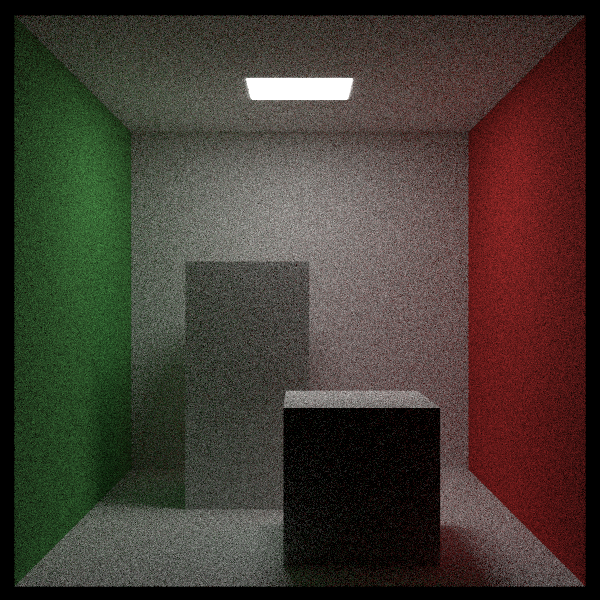
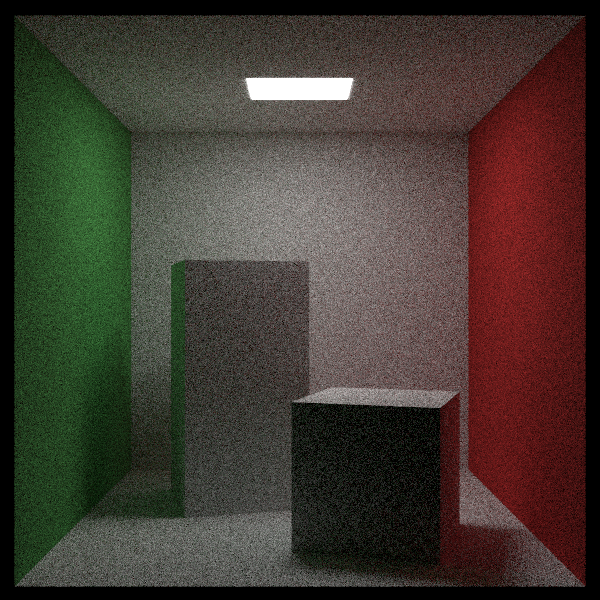
Translate and rotate objects

diff --git a/src/instance.rs b/src/instance.rs
@@ -1,0 +1,144 @@
+// TODO: We can probably leverage the features of nalgebra to do the rotations/translations
+
+use crate::{
+    aabb::AABB,
+    hittable::{HitRecord, Hittable},
+    math::{Point, Vector},
+    ray::Ray,
+};
+
+pub struct Translate {
+    hittable: Box<dyn Hittable>,
+    offset: Vector,
+}
+
+impl Translate {
+    pub fn new(hittable: Box<dyn Hittable>, offset: Vector) -> Self {
+        Self { hittable, offset }
+    }
+}
+
+impl Hittable for Translate {
+    fn hit(&self, ray: &Ray, t_min: f64, t_max: f64) -> Option<HitRecord> {
+        let offset_ray = Ray::new(ray.origin() - self.offset, ray.direction(), ray.time());
+        match self.hittable.hit(&offset_ray, t_min, t_max) {
+            Some(mut hit) => {
+                hit.p += self.offset;
+                // hit.normal += self.offset;
+
+                Some(hit)
+            }
+            None => None,
+        }
+    }
+
+    fn bounding_box(&self, start_time: f64, end_time: f64) -> Option<crate::aabb::AABB> {
+        match self.hittable.bounding_box(start_time, end_time) {
+            Some(aabb) => Some(AABB::new(
+                aabb.minimum() + self.offset,
+                aabb.maximum() + self.offset,
+            )),
+            None => None,
+        }
+    }
+}
+
+pub struct RotateY {
+    hittable: Box<dyn Hittable>,
+    sin_theta: f64,
+    cos_theta: f64,
+    aabb: Option<AABB>,
+}
+
+impl RotateY {
+    pub fn new(hittable: Box<dyn Hittable>, theta: f64) -> Self {
+        let rads = theta.to_radians();
+        let sin_theta = rads.sin();
+        let cos_theta = rads.cos();
+
+        // TODO: Probably should plumb time in here somehow
+        let bound = hittable.bounding_box(0.0, 1.0);
+        match bound {
+            Some(bound) => {
+                let mut min = Point::new(f64::INFINITY, f64::INFINITY, f64::INFINITY);
+                let mut max = Point::new(-f64::INFINITY, -f64::INFINITY, -f64::INFINITY);
+
+                for i in 0..2 {
+                    for j in 0..2 {
+                        for k in 0..2 {
+                            let x =
+                                i as f64 * bound.maximum().x + (1.0 - i as f64) * bound.minimum().x;
+                            let y =
+                                j as f64 * bound.maximum().y + (1.0 - j as f64) * bound.minimum().y;
+                            let z =
+                                k as f64 * bound.maximum().z + (1.0 - k as f64) * bound.minimum().z;
+
+                            let newx = cos_theta * x + sin_theta * z;
+                            let newz = -sin_theta * x + cos_theta * z;
+
+                            let tester = Vector::new(newx, y, newz);
+
+                            for c in 0..3 {
+                                min[c] = min[c].min(tester[c]);
+                                max[c] = max[c].max(tester[c]);
+                            }
+                        }
+                    }
+                }
+
+                Self {
+                    hittable,
+                    sin_theta,
+                    cos_theta,
+                    aabb: Some(AABB::new(min, max)),
+                }
+            }
+            None => Self {
+                hittable,
+                sin_theta,
+                cos_theta,
+                aabb: None,
+            },
+        }
+    }
+}
+
+impl Hittable for RotateY {
+    fn hit(&self, ray: &Ray, t_min: f64, t_max: f64) -> Option<HitRecord> {
+        let mut origin = ray.origin();
+        let mut direction = ray.direction();
+
+        // Transform the x/z coordinates of the origin & direction with the rotation
+        origin[0] = self.cos_theta * ray.origin()[0] - self.sin_theta * ray.origin()[2];
+        origin[2] = self.sin_theta * ray.origin()[0] + self.cos_theta * ray.origin()[2];
+
+        direction[0] = self.cos_theta * ray.direction()[0] - self.sin_theta * ray.direction()[2];
+        direction[2] = self.sin_theta * ray.direction()[0] + self.cos_theta * ray.direction()[2];
+
+        let rotated_ray = Ray::new(origin, direction, ray.time());
+
+        match self.hittable.hit(&rotated_ray, t_min, t_max) {
+            Some(mut hit) => {
+                // Transform the hit x/z coordinates and surface normal with the rotaion
+                let mut p = hit.p;
+                let mut normal = hit.normal;
+
+                p[0] = self.cos_theta * hit.p[0] + self.sin_theta * hit.p[2];
+                p[2] = -self.sin_theta * hit.p[0] + self.cos_theta * hit.p[2];
+
+                normal[0] = self.cos_theta * hit.normal[0] + self.sin_theta * hit.normal[2];
+                normal[2] = -self.sin_theta * hit.normal[0] + self.cos_theta * hit.normal[2];
+
+                hit.p = p;
+                hit.normal = normal;
+
+                Some(hit)
+            }
+            None => None,
+        }
+    }
+
+    fn bounding_box(&self, _: f64, _: f64) -> Option<AABB> {
+        self.aabb.clone()
+    }
+}

diff --git a/src/scene.rs b/src/scene.rs
@@ -4,6 +4,7 @@ use std::{path::Path, sync::Arc};
 use crate::{
     camera::{self, Camera},
     hittable::HittableList,
+    instance::{RotateY, Translate},
     material::{Dielectric, DiffuseLight, Lambertian, Metal},
     math::{random_color, random_range, Color, Point, Vector},
     objects::{MovingSphere, Sphere},
@@ -363,16 +364,23 @@ pub fn cornell_box() -> Scene {
         white.clone(),
     )));
 
-    objects.add(Arc::new(Cuboid::new(
-        Point::new(130.0, 0.0, 65.0),
-        Point::new(295.0, 165.0, 230.0),
+    let box1 = Box::new(Cuboid::new(
+        Point::new(0.0, 0.0, 0.0),
+        Point::new(165.0, 330.0, 165.0),
         white.clone(),
-    )));
-    objects.add(Arc::new(Cuboid::new(
-        Point::new(265.0, 0.0, 295.0),
-        Point::new(430.0, 330.0, 460.0),
+    ));
+    let box1 = Box::new(RotateY::new(box1, 15.0));
+    let box1 = Translate::new(box1, Vector::new(265.0, 0.0, 295.0));
+    objects.add(Arc::new(box1));
+
+    let box2 = Box::new(Cuboid::new(
+        Point::new(0.0, 0.0, 0.0),
+        Point::new(165.0, 165.0, 165.0),
         white.clone(),
-    )));
+    ));
+    let box2 = Box::new(RotateY::new(box2, -18.0));
+    let box2 = Translate::new(box2, Vector::new(130.0, 0.0, 65.0));
+    objects.add(Arc::new(box2));
 
     let image = Image::new(600, 500, 1.0);
 

diff --git a/src/objects.rs b/src/objects.rs
@@ -29,7 +29,7 @@ impl Hittable for Sphere {
     fn hit(&self, ray: &Ray, t_min: f64, t_max: f64) -> Option<HitRecord> {
         let oc = ray.origin() - self.center;
         let a = ray.direction().magnitude_squared();
-        let half_b = oc.dot(ray.direction());
+        let half_b = oc.dot(&ray.direction());
         let c = oc.magnitude_squared() - self.radius.powi(2);
 
         // Check the determinant of the intersection quadratic implies real solutions
@@ -108,7 +108,7 @@ impl Hittable for MovingSphere {
     fn hit(&self, ray: &Ray, t_min: f64, t_max: f64) -> Option<HitRecord> {
         let oc = ray.origin() - self.center(ray.time());
         let a = ray.direction().magnitude_squared();
-        let half_b = oc.dot(ray.direction());
+        let half_b = oc.dot(&ray.direction());
         let c = oc.magnitude_squared() - self.radius.powi(2);
 
         // Check the determinant of the intersection quadratic implies real solutions

diff --git a/src/material.rs b/src/material.rs
@@ -65,7 +65,7 @@ impl Metal {
 
 impl Material for Metal {
     fn scatter(&self, ray_in: &Ray, hit: &HitRecord) -> Option<ScatterRecord> {
-        let reflected = reflect(&Unit::new_normalize(*ray_in.direction()), &hit.normal);
+        let reflected = reflect(&Unit::new_normalize(ray_in.direction()), &hit.normal);
 
         // TODO: Absorb rays which scatter inside the original object
         Some(ScatterRecord {
@@ -103,7 +103,7 @@ impl Material for Dielectric {
             Face::Back => self.refraction_index,
         };
 
-        let unit_direction = Unit::new_normalize(*ray_in.direction());
+        let unit_direction = Unit::new_normalize(ray_in.direction());
         let cos_theta = -unit_direction.dot(&hit.normal).min(1.0);
         let sin_theta = (1.0 - cos_theta.powi(2)).sqrt();
 

diff --git a/src/aabb.rs b/src/aabb.rs
@@ -31,6 +31,11 @@ impl AABB {
         self.minimum
     }
 
+    #[inline]
+    pub fn maximum(&self) -> Point {
+        self.maximum
+    }
+
     // TODO: Implement the optimized routine suggested here: https://raytracing.github.io/books/RayTracingTheNextWeek.html#boundingvolumehierarchies/anoptimizedaabbhitmethod
     // It's gonna need tests to check convergance with this method
     pub fn hit(&self, ray: &Ray, t_min: f64, t_max: f64) -> bool {

diff --git a/src/ray.rs b/src/ray.rs
@@ -26,13 +26,13 @@ impl Ray {
     }
 
     #[inline]
-    pub fn direction(&self) -> &Vector {
-        &self.direction
+    pub fn direction(&self) -> Vector {
+        self.direction
     }
 
     #[inline]
-    pub fn origin(&self) -> &Point {
-        &self.origin
+    pub fn origin(&self) -> Point {
+        self.origin
     }
 
     #[inline]

diff --git a/src/main.rs b/src/main.rs
@@ -2,6 +2,7 @@ mod aabb;
 mod bvh;
 mod camera;
 mod hittable;
+mod instance;
 mod material;
 mod math;
 mod objects;
